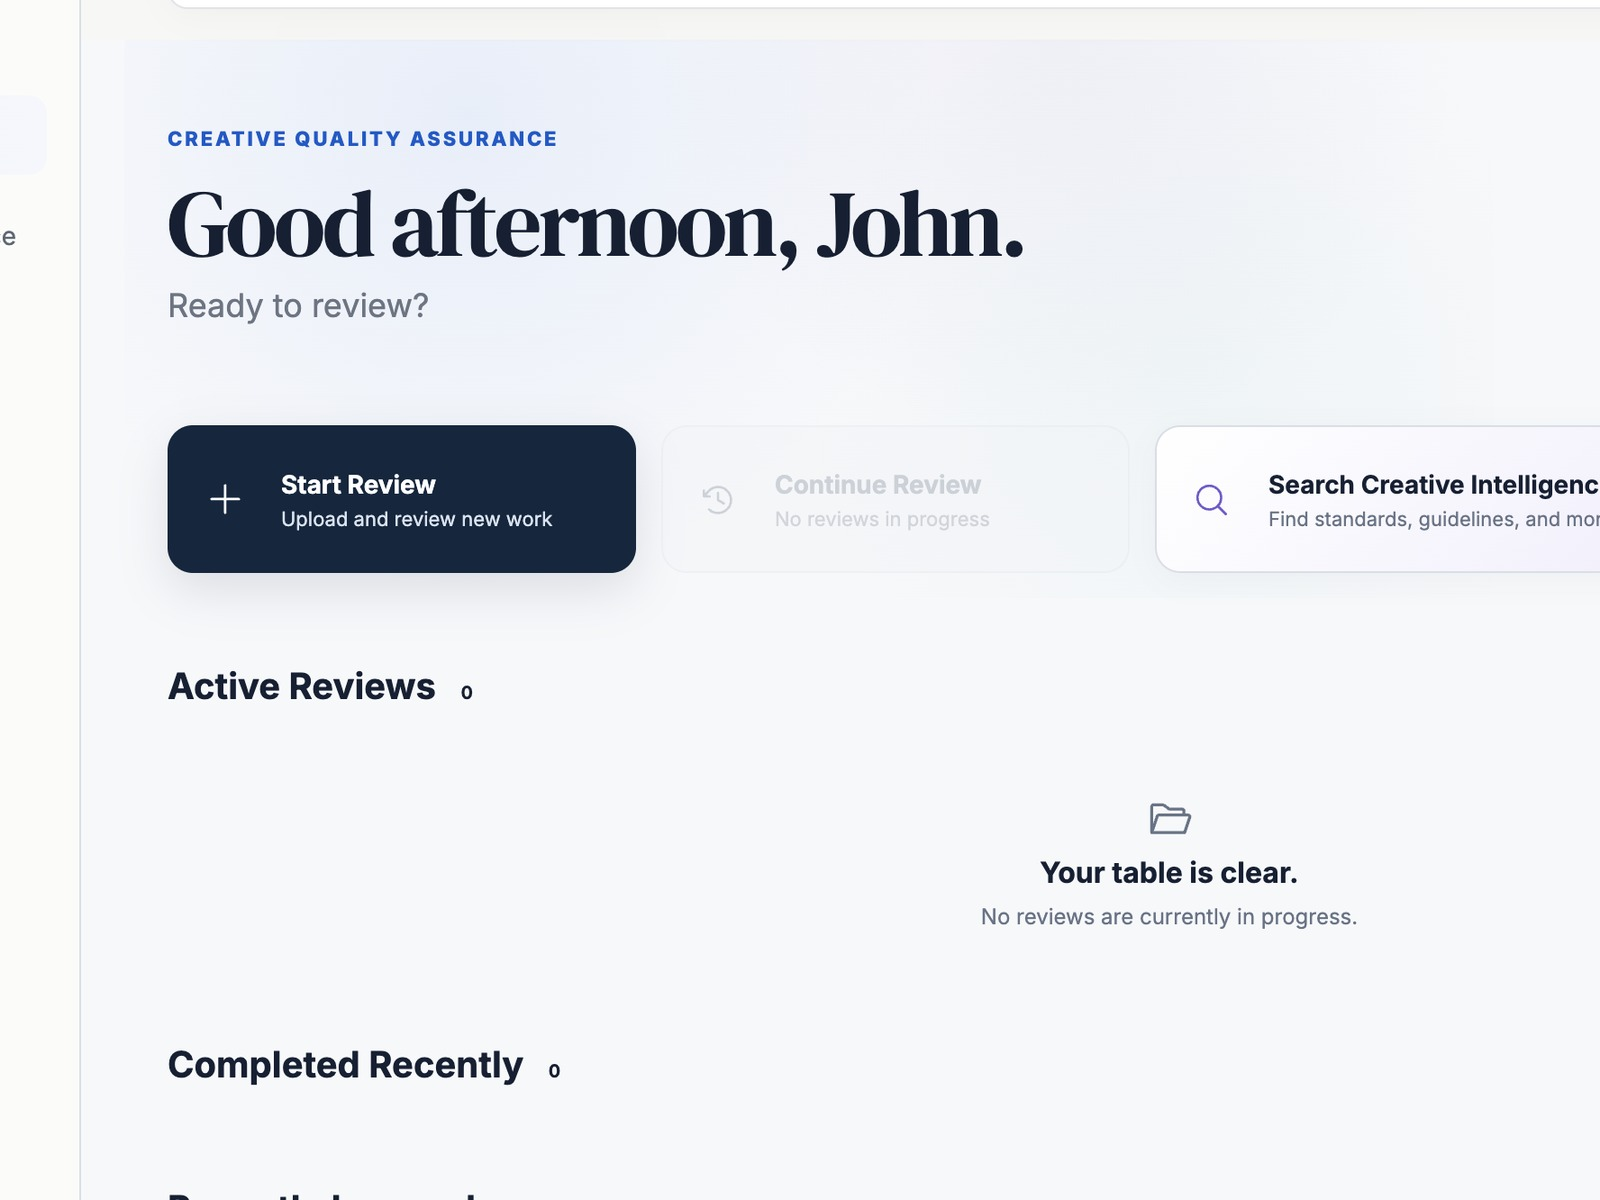
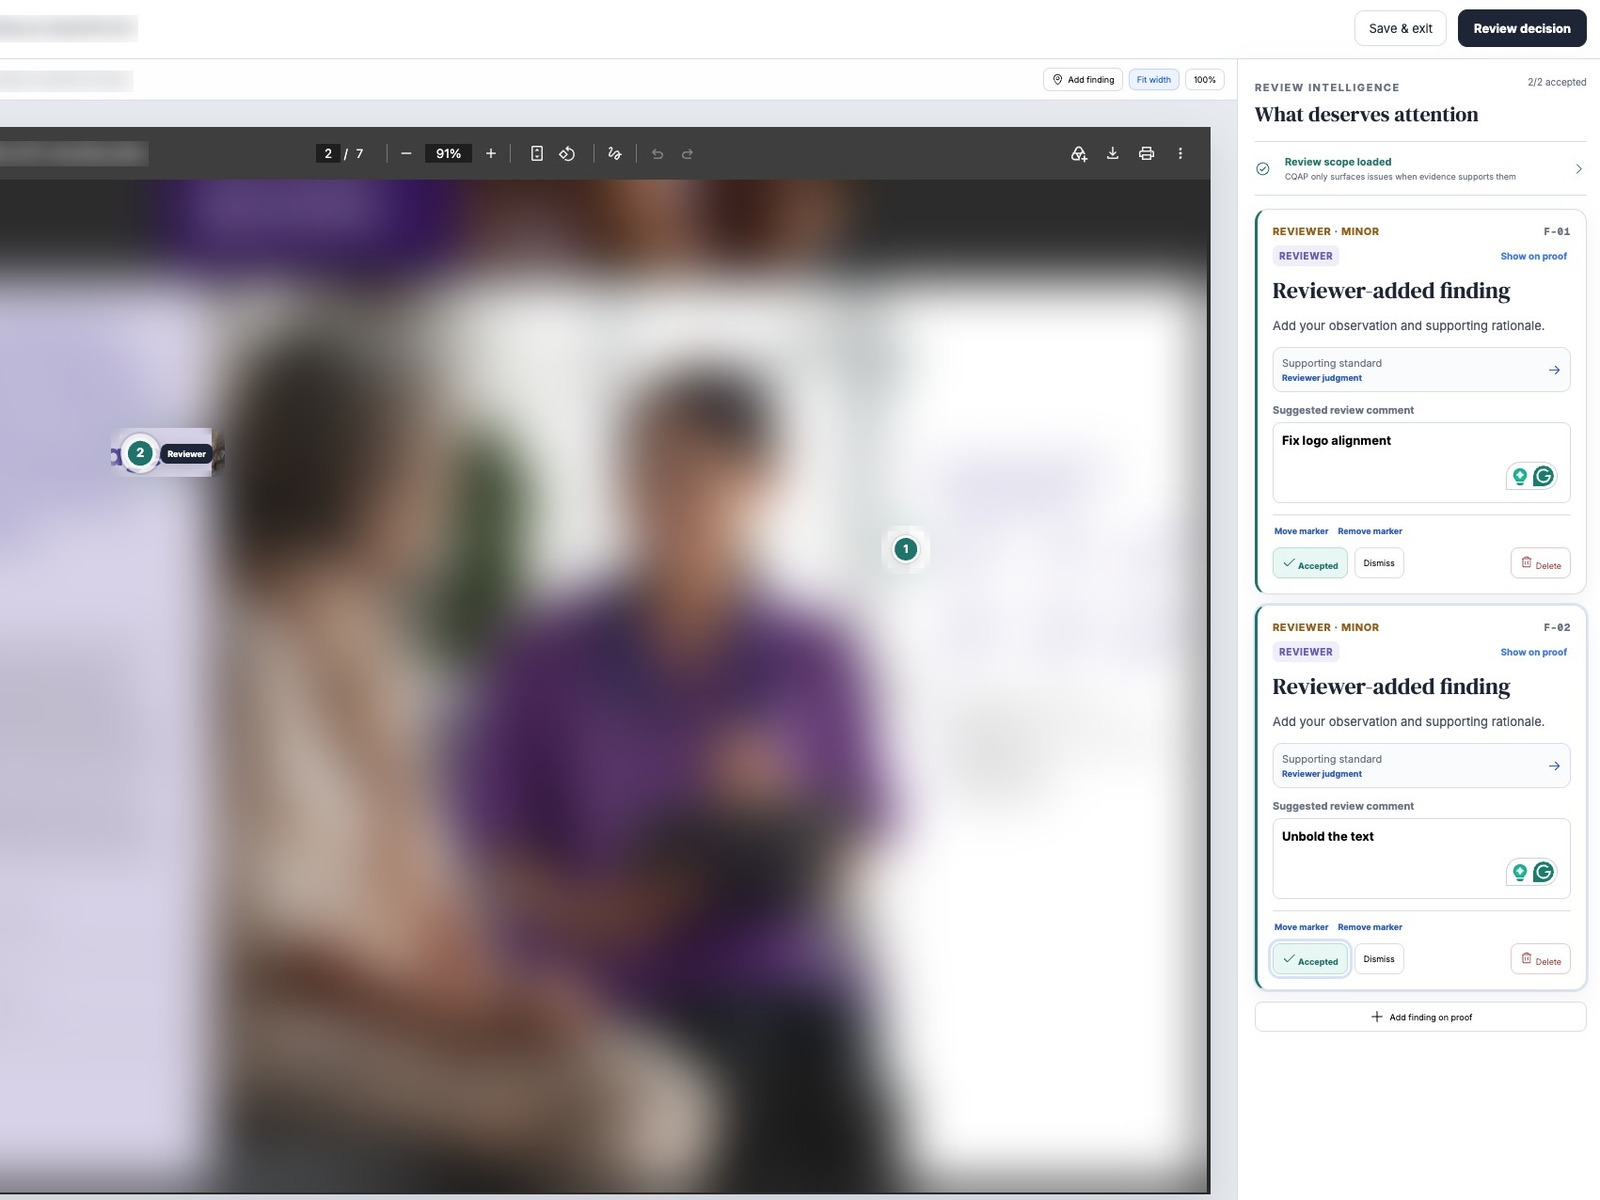
CQAP: the real review screens, redacted
The owner's five screens of an actual review pass — dashboard, package
validation, the workspace before and after findings, and the approved
state — replace the empty Alpha placeholders. They had been AirDropped to
this Mac hours earlier and missed: macOS kept their original capture date,
so every listing sorted by modified time buried them. Found by date added.

Redaction is by blur, not omission: the Carelon proof under review becomes
colour and shape at a 26px radius, and every job and file identifier (the
header title, sidebar package cards, viewer filename, document id, the
package-ready form fields, the dashboard rows, the approved line) is
softened at 9px. The two numbered finding markers are pasted back sharp
with a feathered mask, because placing a finding on the proof is the
mechanism. The dashboard is cropped above "Recently Learned", which carries
internal job vocabulary. The unblurred sources were deleted before deploy
and are not in the repo.

The cover is the findings workspace, right-anchored so the panel is in
frame. The context copy no longer claims the screens are empty states.

diff --git a/src/lib/projects.ts b/src/lib/projects.ts
@@ -1838,7 +1838,7 @@ export const PROJECTS: Project[] = [
       mandate:
         "Prototype a review tool where the reasoning survives the review: classify work on the way in, capture the decision on the way out, and make both searchable.",
       context:
-        "Built on my own time as a prototype, out of years of running creative review at volume. It holds no client work and no confidential material — the screens here are an empty Alpha workspace.",
+        "Built on my own time as a prototype, out of years of running creative review at volume. The screens here show a real review pass; the proof under review and the job identifiers are deliberately softened, because that is client work and the tool is the subject.",
       role: [
         "Framed the problem as institutional memory rather than workflow speed",
         "Designed the review model — classify on intake, capture the decision on completion",
@@ -1866,7 +1866,7 @@ export const PROJECTS: Project[] = [
         },
       ],
       outcomes: [
-        "A working Alpha with the full model in place — workspace, searchable intelligence, memory and impact",
+        "A working Alpha with the full loop in place — package validation, a review workspace with placed findings, a decision that becomes a reusable record",
         "A stated measurement principle that keeps the tool pointed at the system rather than at people",
         "TODO: Confirm — no pilot, adoption or outcome data yet; this is a prototype and is presented as one",
       ],
@@ -1876,27 +1876,47 @@ export const PROJECTS: Project[] = [
         {
           kind: "browser",
           image: {
-            src: "/work/cqap/workspace.jpg",
-            alt: "CQAP — the reviewer workspace, with start review, continue review and search",
+            src: "/work/cqap/02-package-ready.jpg",
+            alt: "CQAP — validation and context: the package is ready to review",
           },
           url: "cqap.vercel.app",
           caption:
-            "The workspace opens on the only three things a reviewer needs: start something, continue something, or look up what was already decided.",
+            "Validation before judgment. File integrity is checked and the context — brand, line of business, channel, piece type — is confirmed before anyone forms an opinion about the work.",
+        },
+        {
+          kind: "full",
+          aspect: "16 / 10",
+          image: {
+            src: "/work/cqap/04-review-findings.jpg",
+            alt: "CQAP — the review workspace with two reviewer findings accepted",
+          },
+          caption:
+            "The review workspace. Findings are placed on the proof as numbered markers and written up on the right, each tied to a supporting standard. The proof itself is softened here — it is real client work and not the point; the mechanism is.",
         },
         {
           kind: "pair",
           a: {
-            src: "/work/cqap/memory.jpg",
-            alt: "CQAP — the memory view, where completed reviews become reusable records",
+            src: "/work/cqap/03-review-clean.jpg",
+            alt: "CQAP — the review workspace before any findings",
           },
           b: {
-            src: "/work/cqap/impact.jpg",
-            alt: "CQAP — the impact view, measuring organisational activity rather than individuals",
+            src: "/work/cqap/05-approved.jpg",
+            alt: "CQAP — review complete: approved, saved as a review memory",
           },
-          labelA: "Memory",
-          labelB: "Impact",
+          labelA: "Nothing surfaced",
+          labelB: "Approved",
           caption:
-            "Left, the idea the whole prototype rests on — completed reviews become connected records rather than disappearing into an archive. Right, the measurement principle stated in the interface itself: organisational activity, never individual productivity. Both shown in an empty Alpha state.",
+            "Left: CQAP stays quiet when the evidence isn't strong enough — the panel says so in its own words. Right: a decision becomes a record. The review is saved as a memory, its accepted findings keep their evidence, and the workspace updates.",
+        },
+        {
+          kind: "full",
+          aspect: "2.8 / 1",
+          image: {
+            src: "/work/cqap/01-dashboard.jpg",
+            alt: "CQAP — the workspace with one review active and one completed",
+          },
+          caption:
+            "The workspace with work in it: one review in progress, one just approved and already available as a prior decision.",
         },
       ],
     },
